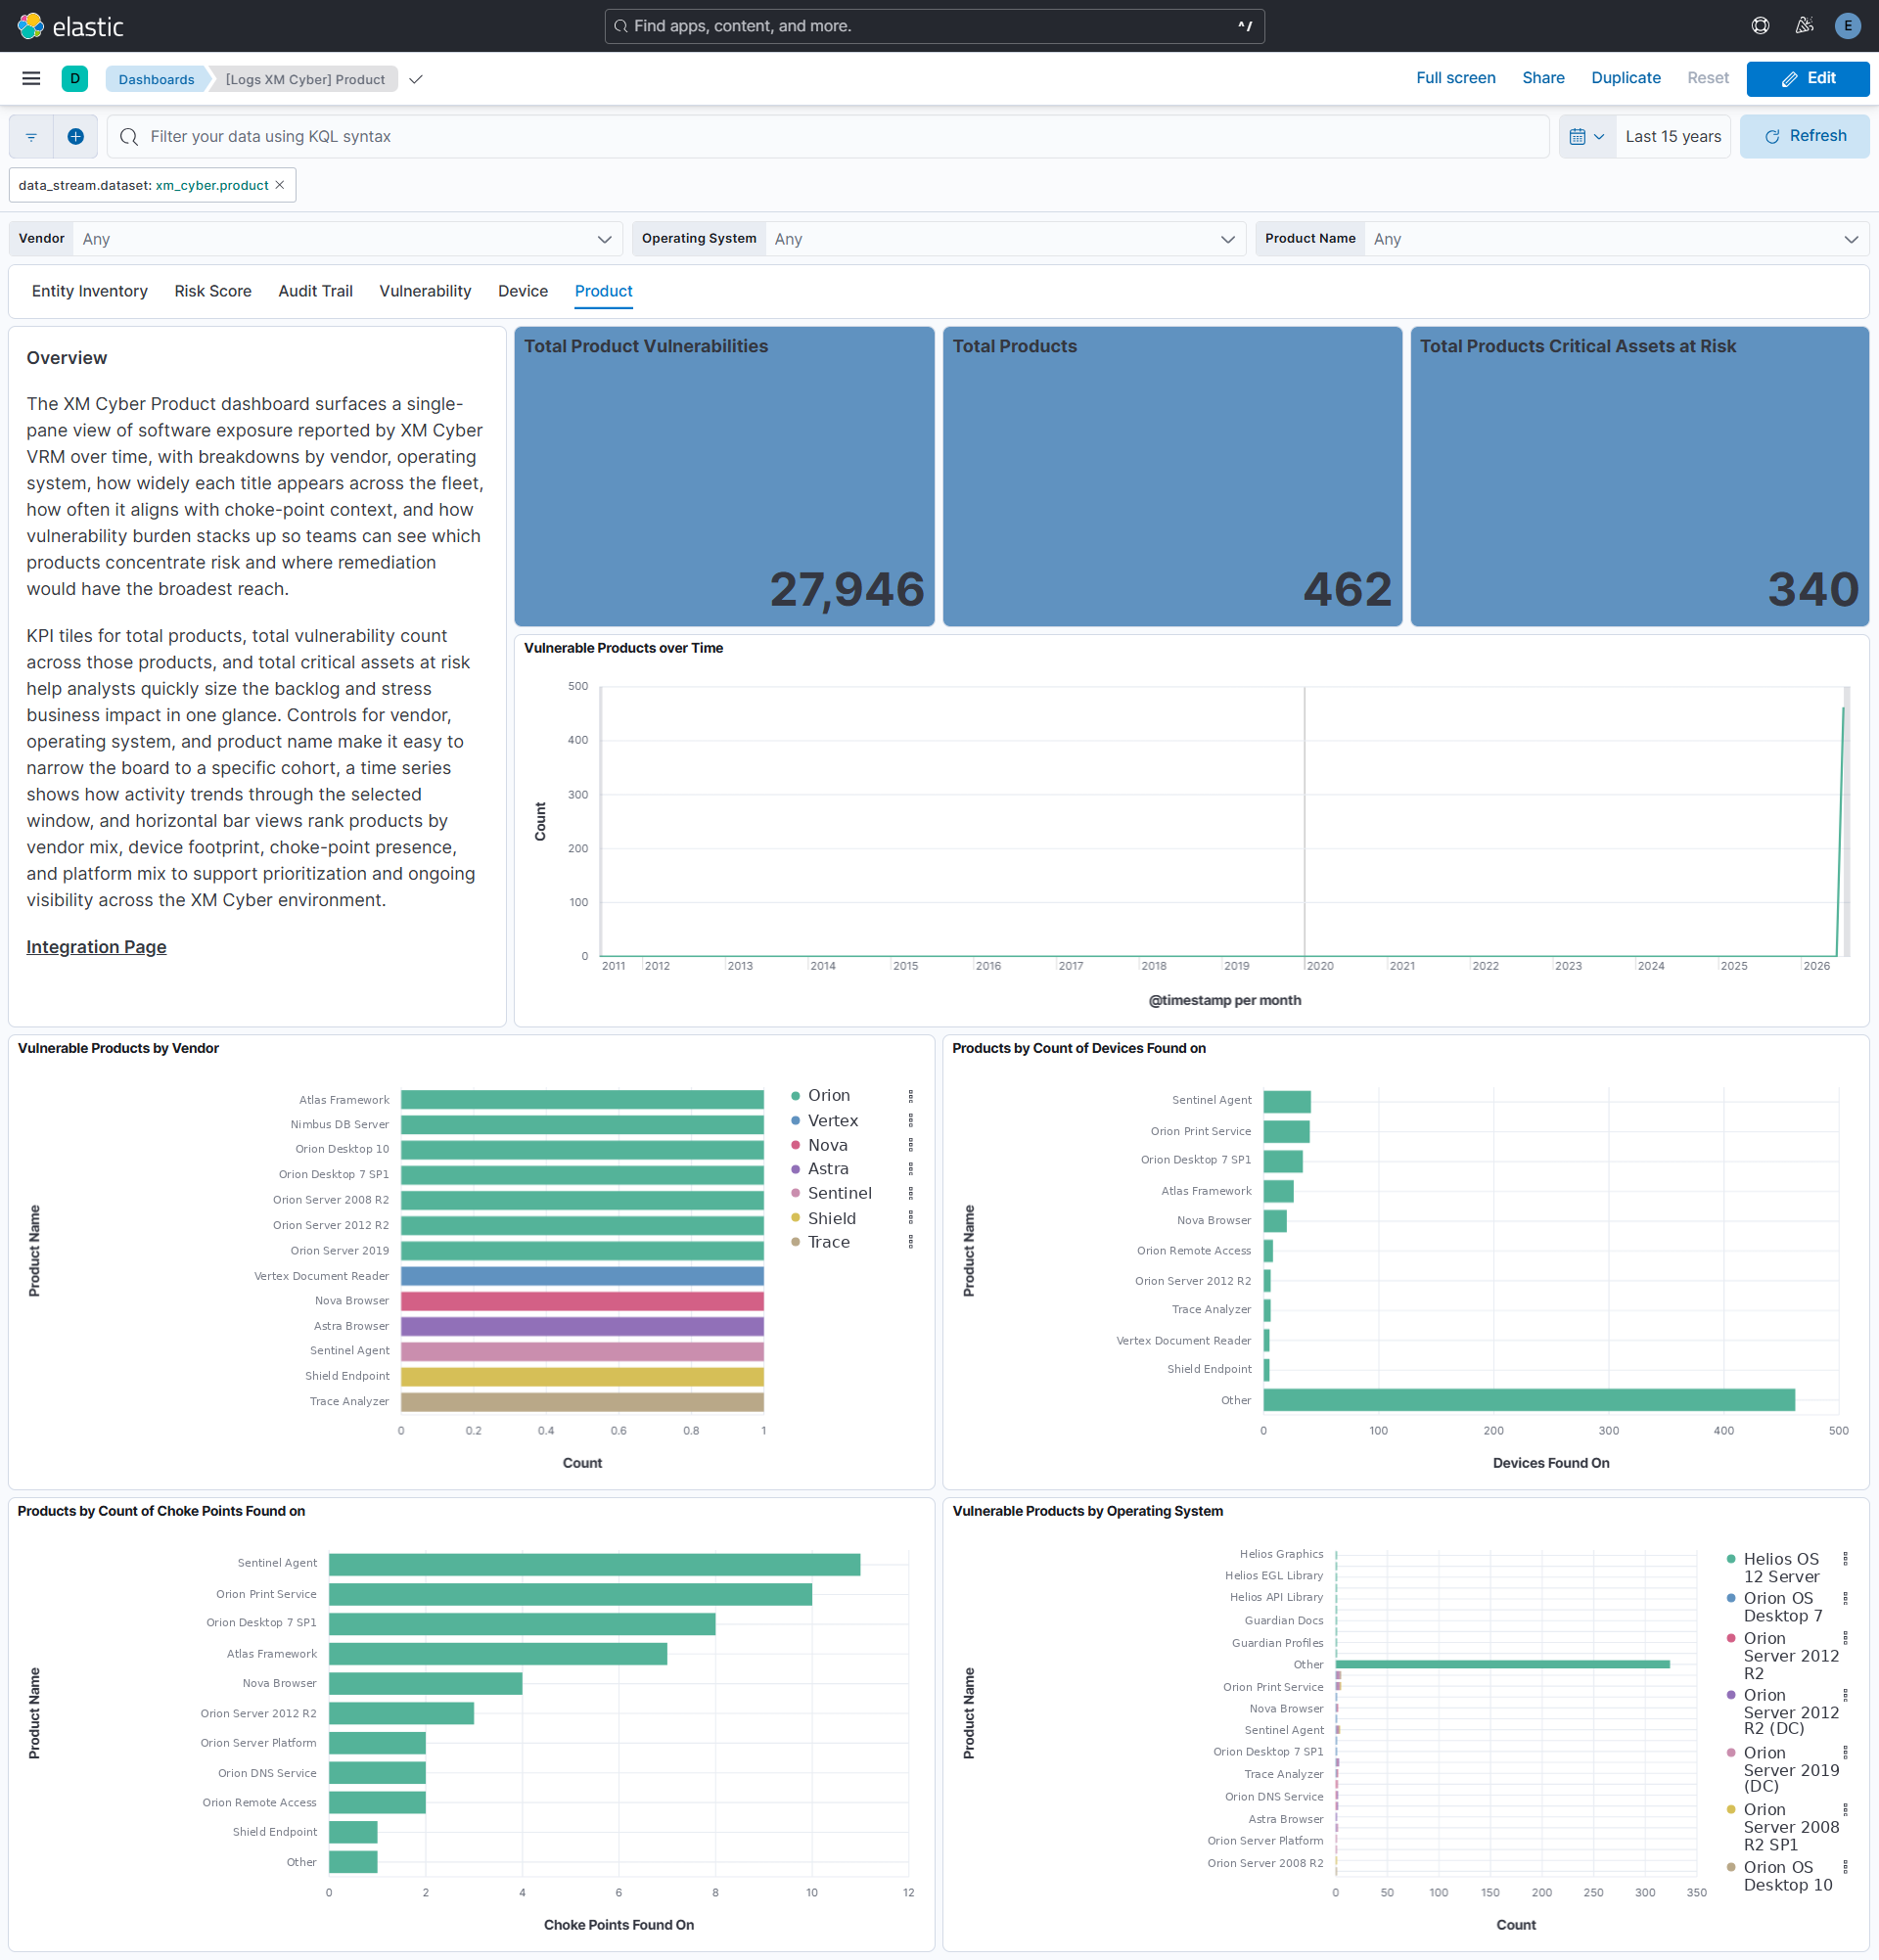
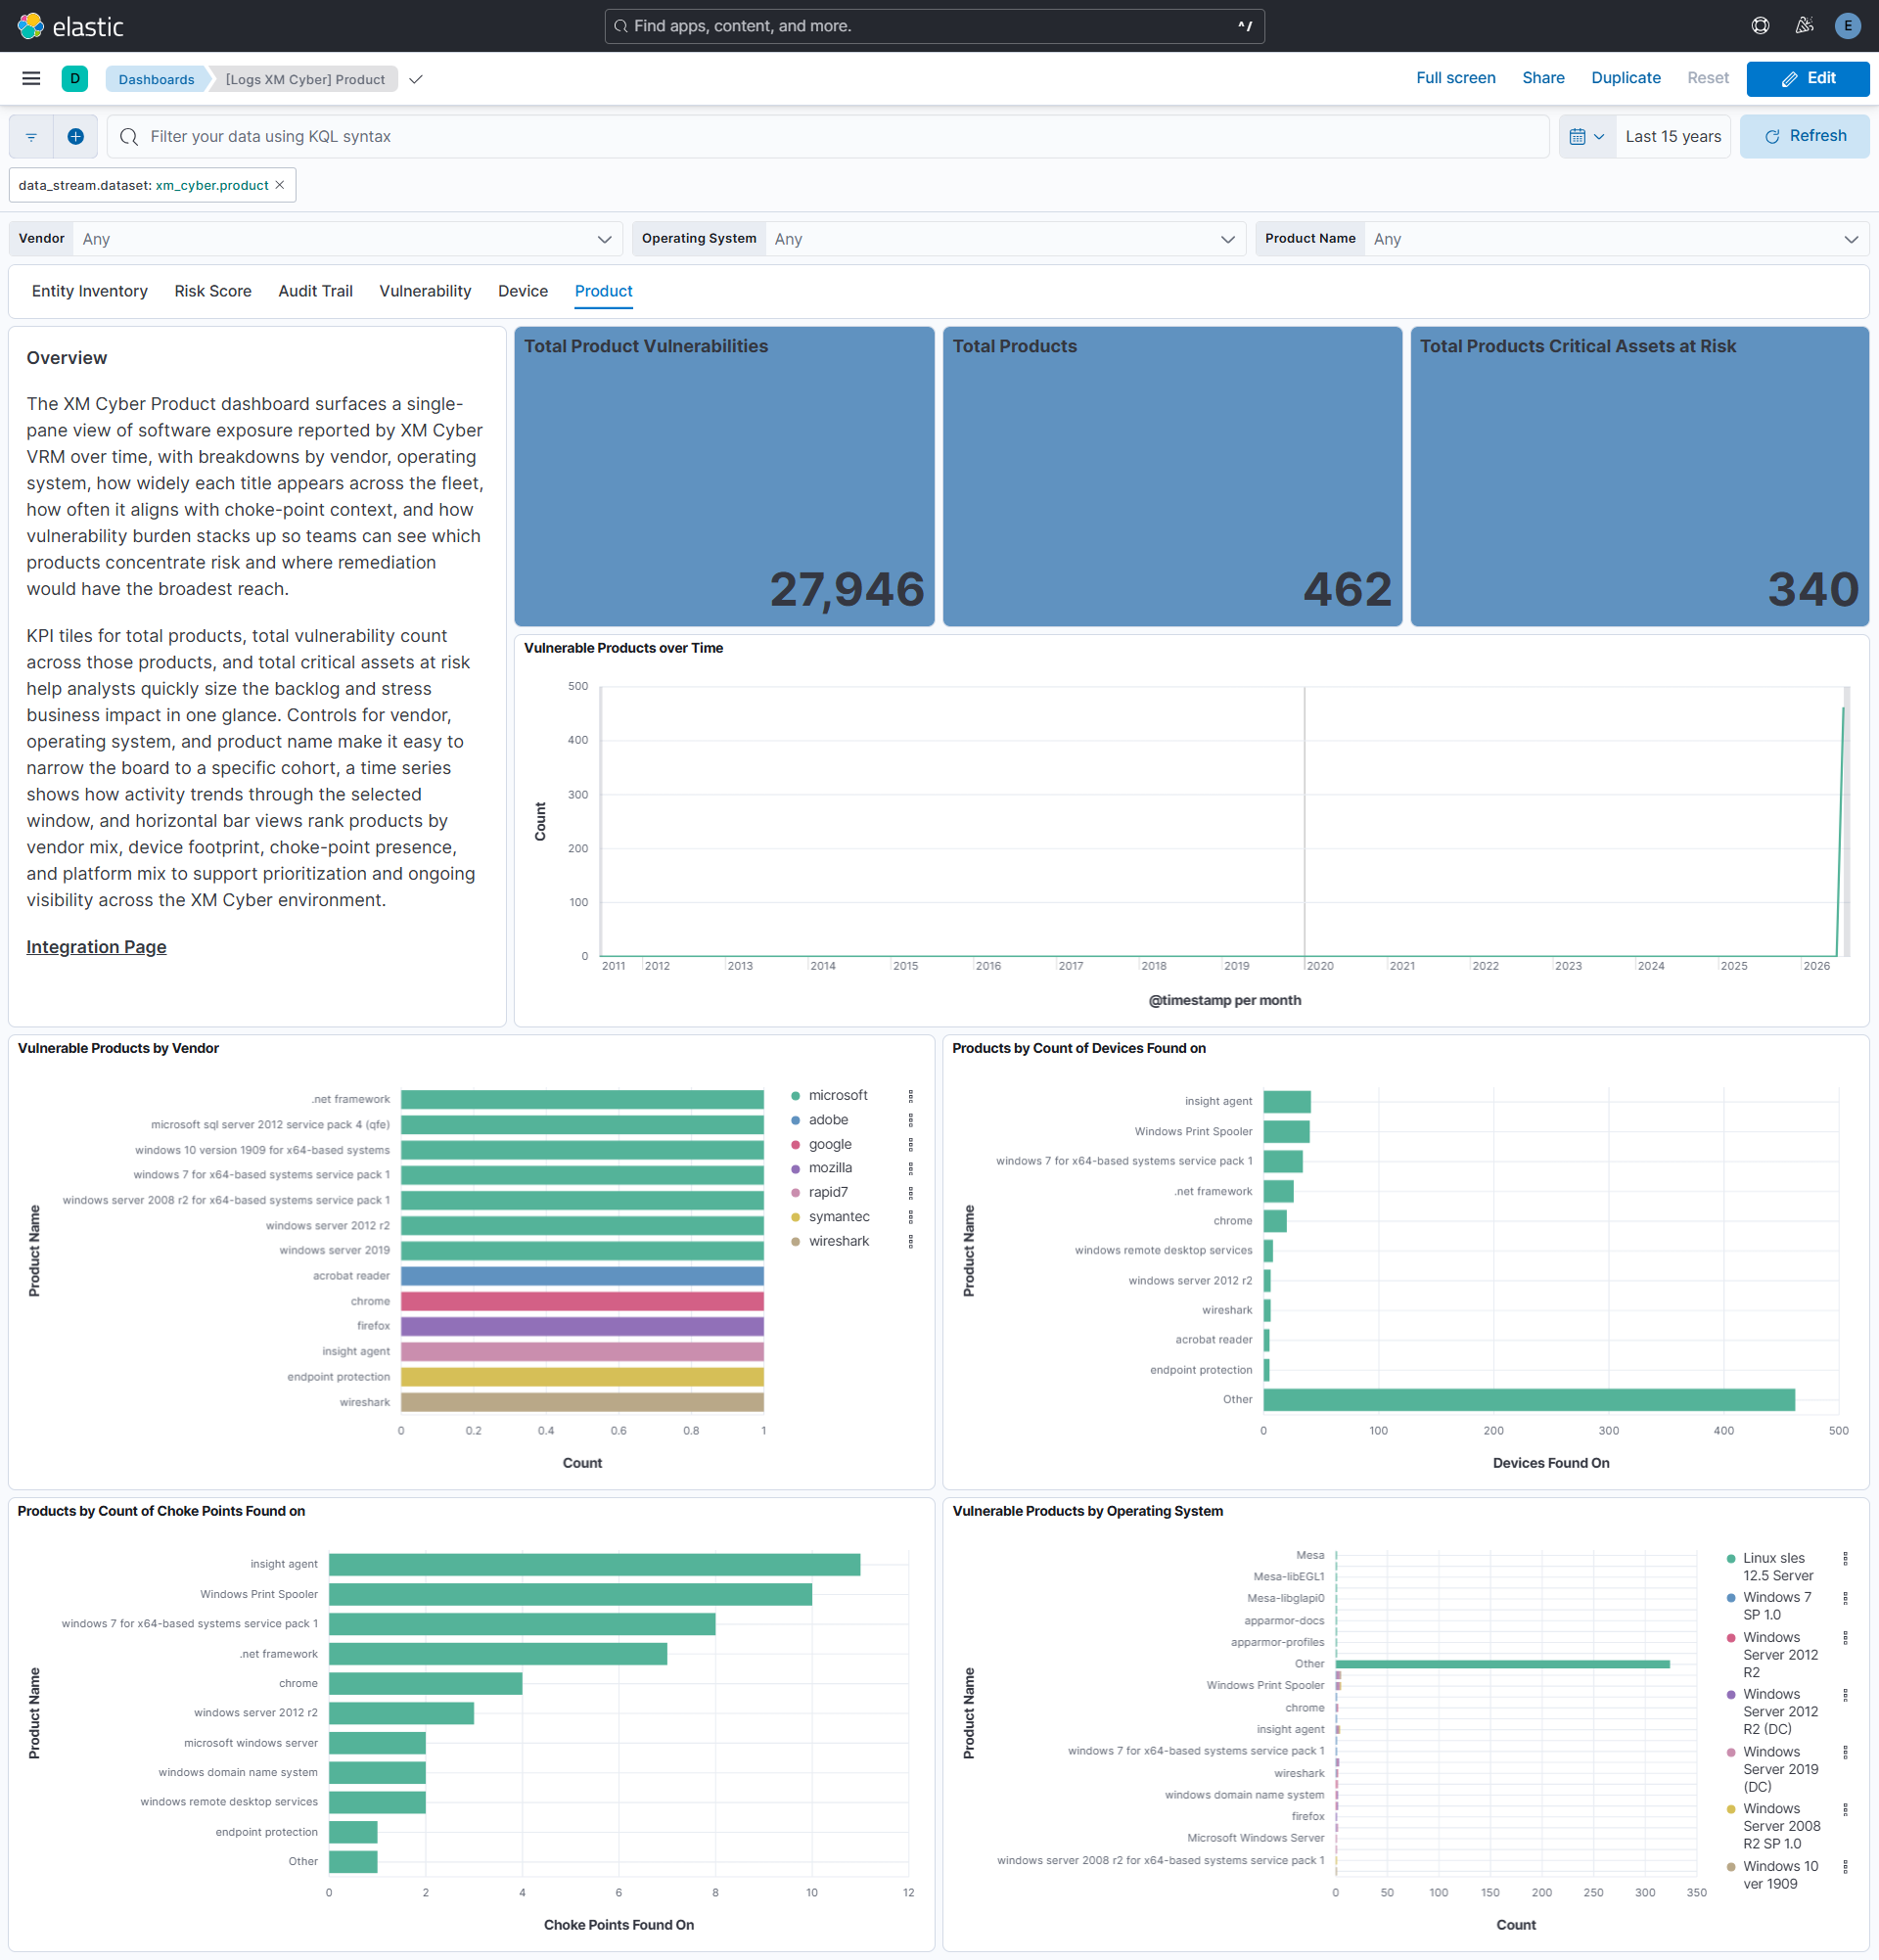
reverted group 2 and 3 changes.

diff --git a/packages/xm_cyber/docs/README.md b/packages/xm_cyber/docs/README.md
@@ -1087,7 +1087,7 @@ An example event for `device` looks as following:
         "dataset": "xm_cyber.device",
         "ingested": "2026-07-17T09:31:25Z",
         "kind": "event",
-        "original": "{\"affectedEntities\":4,\"apps\":[{\"activeCves\":[\"CVE-2023-0001\"],\"activeCvesSafeVersion\":[{\"cve\":\"CVE-2023-0001\",\"safeVersion\":\"2.0.0\"}],\"affectedCriticalAssets\":0,\"chokePointFoundOn\":\"1\",\"closedCves\":[],\"deviceFoundOn\":2,\"name\":\"Example Product\",\"productOperatingSystems\":[\"Orion OS\"],\"productVulnerabilities\":3,\"productsCriticalAssetsAtRisk\":1,\"vendor\":\"VendorCo\",\"version\":\"1.2.3\"}],\"chokePointLevel\":\"Critical\",\"chokePointScore\":100,\"criticalAssetsAtRisk\":2,\"criticalVulnerabilities\":2,\"deviceId\":\"9000000000000000001\",\"deviceName\":\"host-01\",\"deviceType\":\"Workstation\",\"domain\":\"corp.example.com\",\"enitityVulnerabilities\":1,\"enrichmentLabels\":[\"enriched\"],\"fqdn\":\"hugh.corp.example.com\",\"highVulnerabilities\":5,\"ipAddress\":\"192.168.1.10\",\"isChokePoint\":true,\"isCriticalAsset\":true,\"labels\":[\"lab\",\"example-security-test\"],\"lastCompromised\":null,\"lastScan\":\"2026-05-12T21:54:01.641Z\",\"lowVulnerabilities\":3,\"maxCvssV2\":8,\"maxCvssV3\":9.1,\"maxCvssV31\":8.8,\"maxCvssV4\":7.2,\"mediumVulnerabilities\":10,\"os\":\"Orion Desktop 11\",\"ou\":\"OU=Workstations,DC=corp,DC=example,DC=com\",\"products\":5,\"riskScore\":75,\"subnet\":\"192.168.1.0/24\",\"type\":\"Endpoint\",\"unknownVulnerabilities\":0}",
+        "original": "{\"affectedEntities\":4,\"apps\":[{\"activeCves\":[\"CVE-2023-0001\"],\"activeCvesSafeVersion\":[{\"cve\":\"CVE-2023-0001\",\"safeVersion\":\"2.0.0\"}],\"affectedCriticalAssets\":0,\"chokePointFoundOn\":\"1\",\"closedCves\":[],\"deviceFoundOn\":2,\"name\":\"Example Product\",\"productOperatingSystems\":[\"Windows\"],\"productVulnerabilities\":3,\"productsCriticalAssetsAtRisk\":1,\"vendor\":\"VendorCo\",\"version\":\"1.2.3\"}],\"chokePointLevel\":\"Critical\",\"chokePointScore\":100,\"criticalAssetsAtRisk\":2,\"criticalVulnerabilities\":2,\"deviceId\":\"9000000000000000001\",\"deviceName\":\"host-01\",\"deviceType\":\"Workstation\",\"domain\":\"corp.example.com\",\"enitityVulnerabilities\":1,\"enrichmentLabels\":[\"enriched\"],\"fqdn\":\"hugh.corp.example.com\",\"highVulnerabilities\":5,\"ipAddress\":\"192.168.1.10\",\"isChokePoint\":true,\"isCriticalAsset\":true,\"labels\":[\"lab\",\"example-security-test\"],\"lastCompromised\":null,\"lastScan\":\"2026-05-12T21:54:01.641Z\",\"lowVulnerabilities\":3,\"maxCvssV2\":8,\"maxCvssV3\":9.1,\"maxCvssV31\":8.8,\"maxCvssV4\":7.2,\"mediumVulnerabilities\":10,\"os\":\"Windows 11\",\"ou\":\"OU=Workstations,DC=corp,DC=example,DC=com\",\"products\":5,\"riskScore\":75,\"subnet\":\"192.168.1.0/24\",\"type\":\"Endpoint\",\"unknownVulnerabilities\":0}",
         "type": [
             "info"
         ]
@@ -1101,7 +1101,7 @@ An example event for `device` looks as following:
         ],
         "name": "hugh.corp.example.com",
         "os": {
-            "full": "Orion Desktop 11"
+            "full": "Windows 11"
         },
         "type": "Workstation"
     },
@@ -1148,7 +1148,7 @@ An example event for `device` looks as following:
                     "device_found_on": 2,
                     "name": "Example Product",
                     "product_operating_systems": [
-                        "Orion OS"
+                        "Windows"
                     ],
                     "product_vulnerabilities": 3,
                     "products_critical_assets_at_risk": 1,
@@ -1249,7 +1249,7 @@ An example event for `product` looks as following:
         "dataset": "xm_cyber.product",
         "ingested": "2026-07-17T09:34:10Z",
         "kind": "event",
-        "original": "{\"affectedCriticalAssets\":2,\"chokePointsFoundOn\":0,\"devicesFoundOn\":2,\"productName\":\"Atlas Transfer Tool\",\"productOperatingSystems\":[\"Helios OS 12.5 Server\"],\"productVulnerabilities\":1,\"productsCriticalAssetsAtRisk\":0,\"vendor\":null}"
+        "original": "{\"affectedCriticalAssets\":2,\"chokePointsFoundOn\":0,\"devicesFoundOn\":2,\"productName\":\"wget\",\"productOperatingSystems\":[\"Linux sles 12.5 Server\"],\"productVulnerabilities\":1,\"productsCriticalAssetsAtRisk\":0,\"vendor\":null}"
     },
     "input": {
         "type": "cel"
@@ -1264,9 +1264,9 @@ An example event for `product` looks as following:
             "affected_critical_assets": 2,
             "choke_points_found_on": 0,
             "devices_found_on": 2,
-            "product_name": "Atlas Transfer Tool",
+            "product_name": "wget",
             "product_operating_systems": [
-                "Helios OS 12.5 Server"
+                "Linux sles 12.5 Server"
             ],
             "product_vulnerabilities": 1,
             "products_critical_assets_at_risk": 0